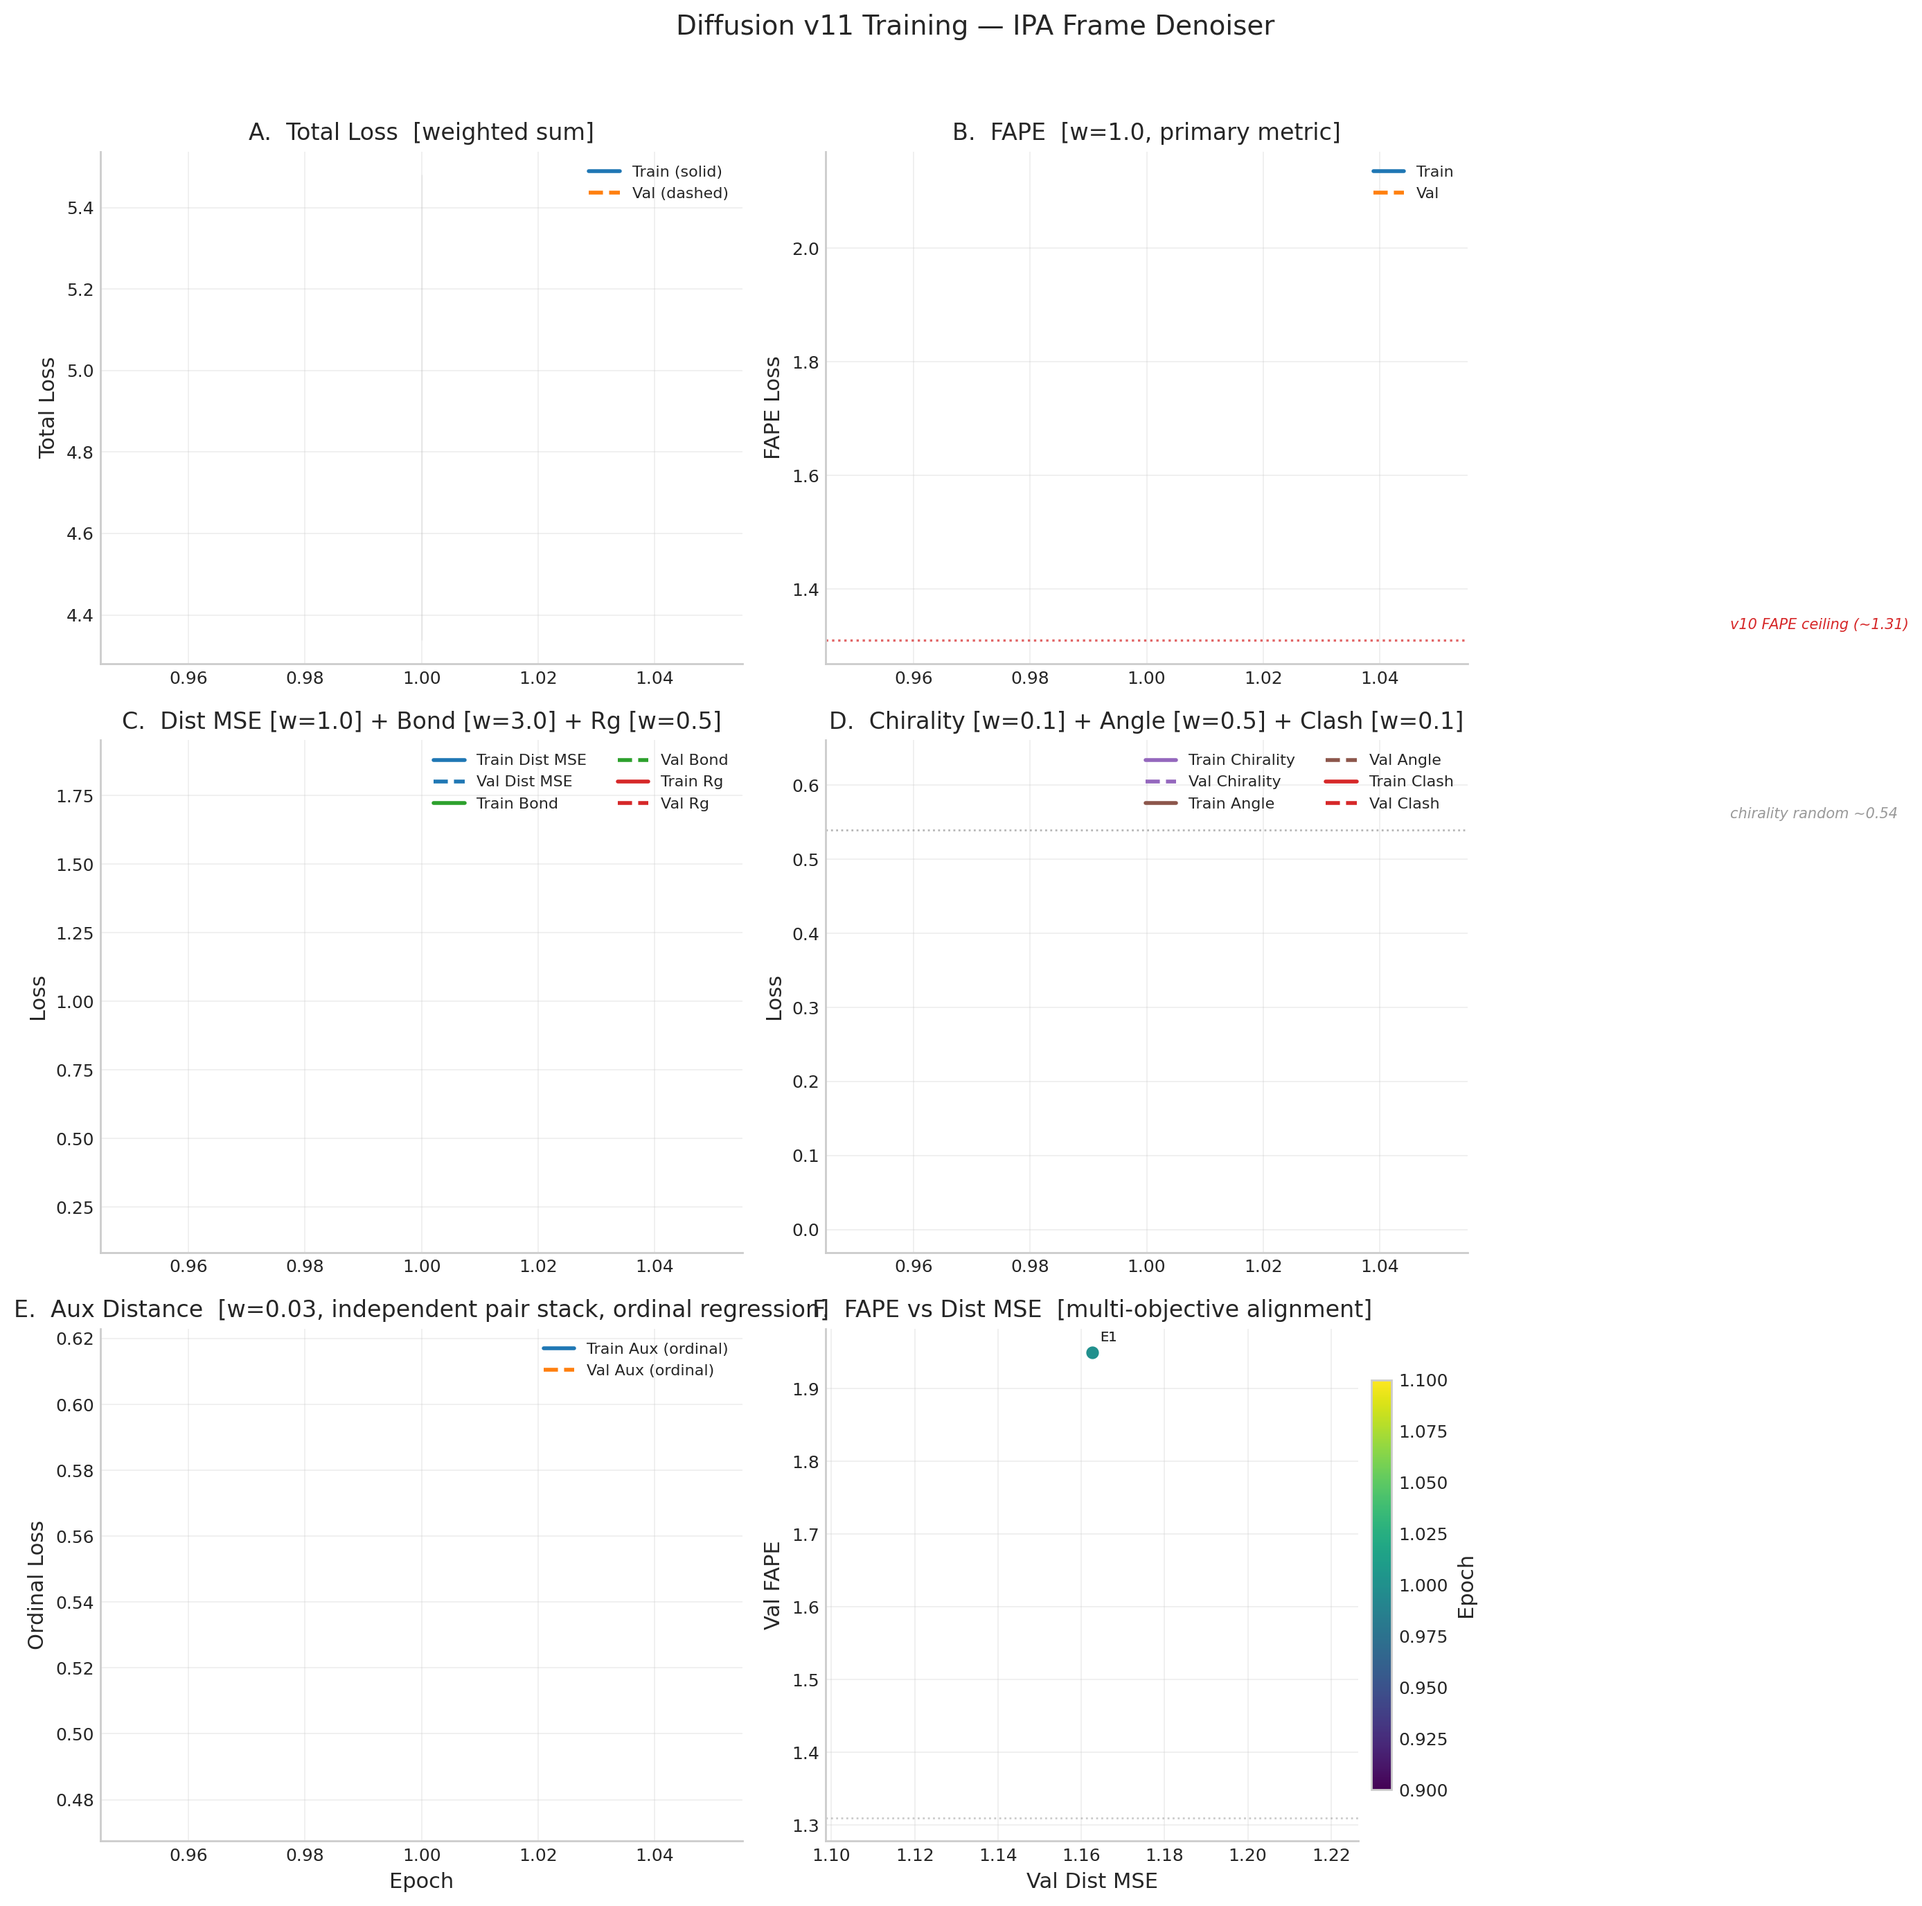
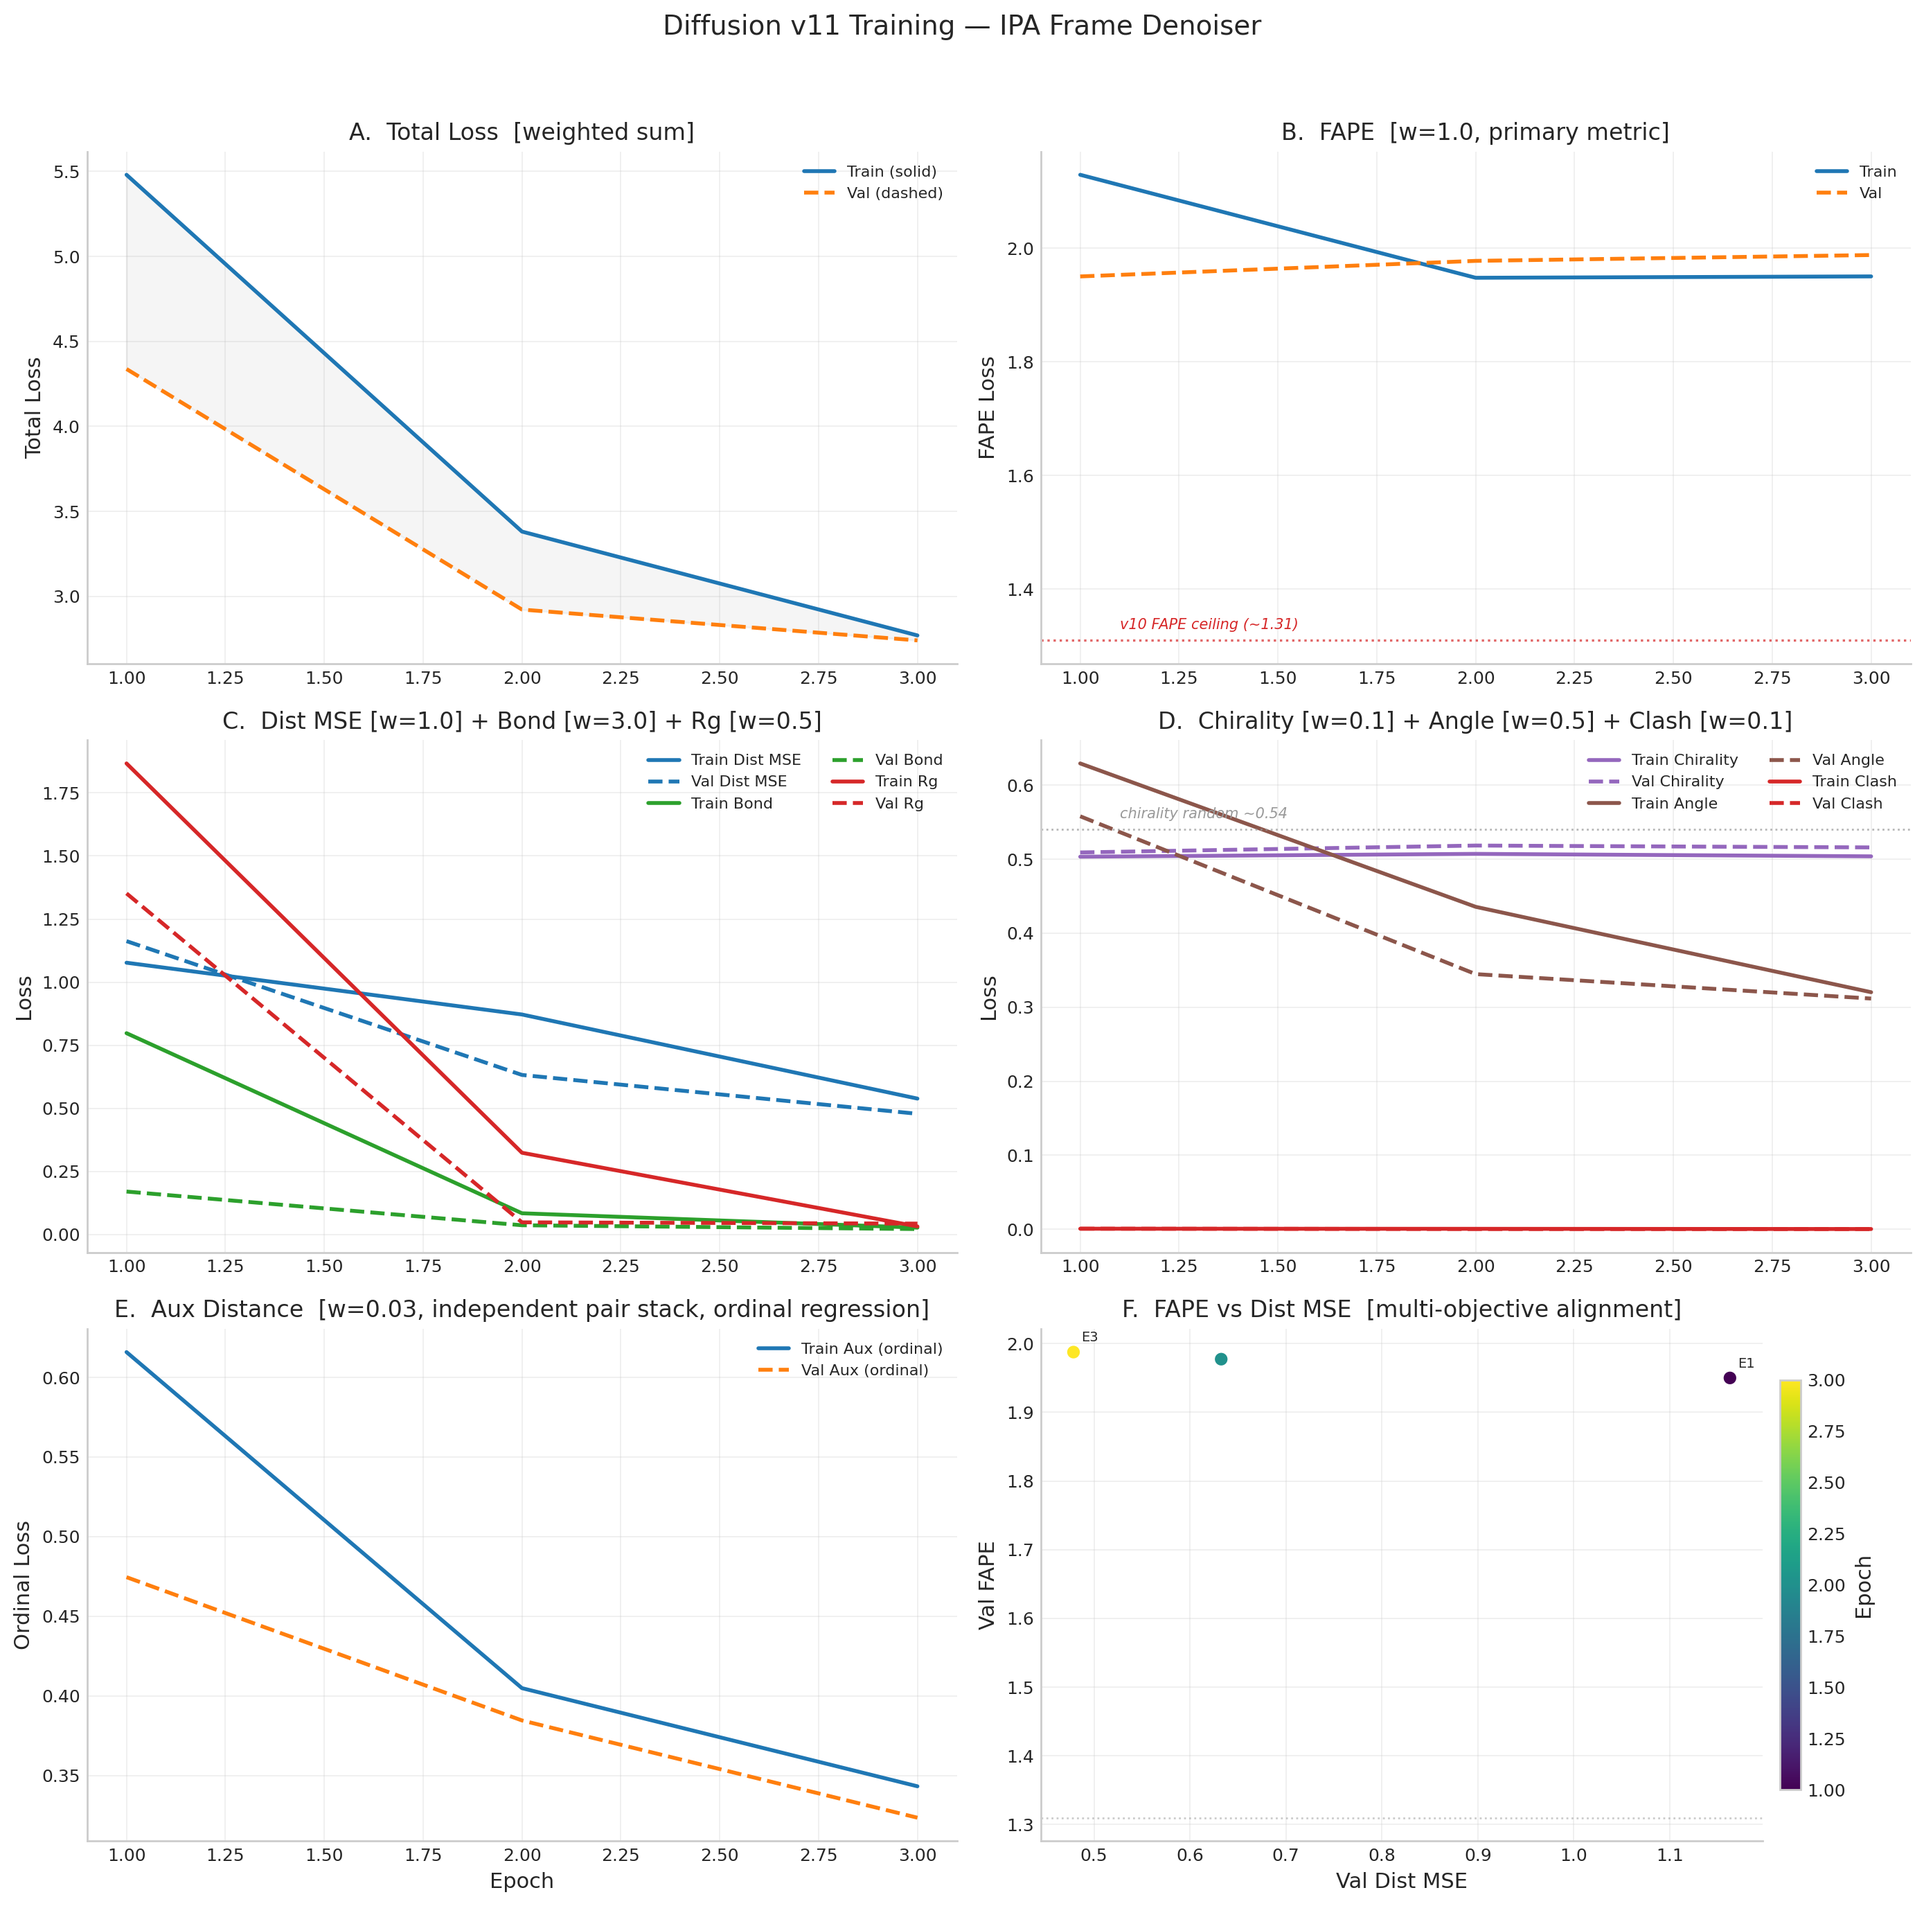
v11 E3: TM=0.128 matching v10 peak in 3 epochs, dist_mse -59%, all NEW BEST

diff --git a/index.html b/index.html
@@ -1261,6 +1261,30 @@
                 <td>15.46&Aring;</td>
                 <td><span class="tag tag-best">NEW BEST</span></td>
               </tr>
+              <tr>
+                <td>2</td>
+                <td>2.922</td>
+                <td>1.977</td>
+                <td>0.633</td>
+                <td>0.037</td>
+                <td>0.049</td>
+                <td>0.385</td>
+                <td>0.102</td>
+                <td>15.32&Aring;</td>
+                <td><span class="tag tag-best">NEW BEST</span></td>
+              </tr>
+              <tr>
+                <td>3</td>
+                <td>2.741</td>
+                <td>1.988</td>
+                <td>0.479</td>
+                <td>0.022</td>
+                <td>0.044</td>
+                <td>0.323</td>
+                <td>0.128</td>
+                <td>14.53&Aring;</td>
+                <td><span class="tag tag-best">NEW BEST</span></td>
+              </tr>
               <!-- New epochs will be added here by monitoring -->
             </tbody>
           </table>
@@ -1358,21 +1382,27 @@
 
         <!-- Status / Live interpretation -->
         <div class="training-pending-note" id="v9-run2-status">
-          <strong>v11 Epoch 1 &mdash; First Signal (20 min on A40):</strong>
+          <strong>v11 Epoch 3 &mdash; Rapid Convergence</strong>
           <ul style="margin: 6px 0 6px 18px; font-size: 0.95em;">
-            <li><strong>val FAPE = 1.950</strong> &mdash; already below the untrained baseline (~2.0+). The IPA frame
-                machinery is learning backbone geometry from E1. This is the metric v10 could <em>never</em> improve.</li>
-            <li><strong>val dist_mse = 1.163</strong> &mdash; distance prediction converging; expect rapid improvement.</li>
-            <li><strong>val bond = 0.171</strong> &mdash; near-perfect C&alpha; spacing already. Fixed-scale normalization working.</li>
-            <li><strong>val aux = 0.475</strong> &mdash; ordinal regression stable. No divergence (v10&rsquo;s detached head diverged by E6).</li>
-            <li><strong>DDIM: TM = 0.099, RMSD = 15.46&Aring;</strong> &mdash; random level, expected for E1. Structural quality lags loss by several epochs.</li>
+            <li><strong>val total: 4.338 &rarr; 2.922 &rarr; 2.741</strong> &mdash; 37% reduction in 3 epochs, all NEW BEST.</li>
+            <li><strong>val FAPE: 1.950 &rarr; 1.977 &rarr; 1.988</strong> &mdash; flat/slight increase. Still above v10&rsquo;s
+                ceiling (1.31). FAPE hasn&rsquo;t started dropping yet &mdash; expected behavior: the model first learns
+                distances and compactness, then frame consistency follows. This is the metric to watch.</li>
+            <li><strong>val dist_mse: 1.163 &rarr; 0.633 &rarr; 0.479</strong> &mdash; 59% drop. Learning pairwise distances
+                rapidly. Already approaching v10&rsquo;s best (0.218) with only 3 epochs.</li>
+            <li><strong>val bond: 0.171 &rarr; 0.037 &rarr; 0.022</strong> &mdash; solved. C&alpha; spacing near-perfect.</li>
+            <li><strong>val Rg: 1.352 &rarr; 0.049 &rarr; 0.044</strong> &mdash; 96.7% drop. Protein size/compactness learned.</li>
+            <li><strong>val aux: 0.475 &rarr; 0.385 &rarr; 0.323</strong> &mdash; ordinal regression improving steadily. No divergence.</li>
+            <li><strong>DDIM: TM = 0.099 &rarr; 0.102 &rarr; 0.128, RMSD = 15.46 &rarr; 15.32 &rarr; 14.53&Aring;</strong> &mdash;
+                already approaching v10&rsquo;s peak (TM=0.131, RMSD=14.53) after just 3 epochs vs v10&rsquo;s 21.</li>
           </ul>
-          <strong>Assessment:</strong> Strongly positive. Val FAPE below baseline at E1 confirms IPA can optimize frame consistency.
-          Training/val gap healthy (no overfitting). Patience 0/15. E2 currently in progress (~20 min/epoch).
-          Monitoring every 30 min.
+          <strong>Assessment:</strong> Very strong early trajectory. Distance, bond, and Rg losses are converging rapidly &mdash; the
+          model is learning &ldquo;proteins are compact blobs of the right size&rdquo; (same as v10). The critical question is
+          whether FAPE will break below its current plateau in the next 2&ndash;5 epochs. DDIM TM at 0.128 by E3 is remarkable &mdash;
+          v10 needed 21 epochs to reach 0.131. All 3 epochs are NEW BEST. Patience 0/15. LR just reached peak (5e-5) at E3 after warmup.
         </div>
         <div style="color: var(--text-secondary); font-size: 0.85em; margin-top: 8px;" id="v9-last-updated">
-          Last updated: 2026-03-09 10:04 UTC &mdash; E1 complete, E2 in progress
+          Last updated: 2026-03-09 10:35 UTC &mdash; E3 complete
         </div>
 
         <!-- v10 Historical Results (collapsed) -->
